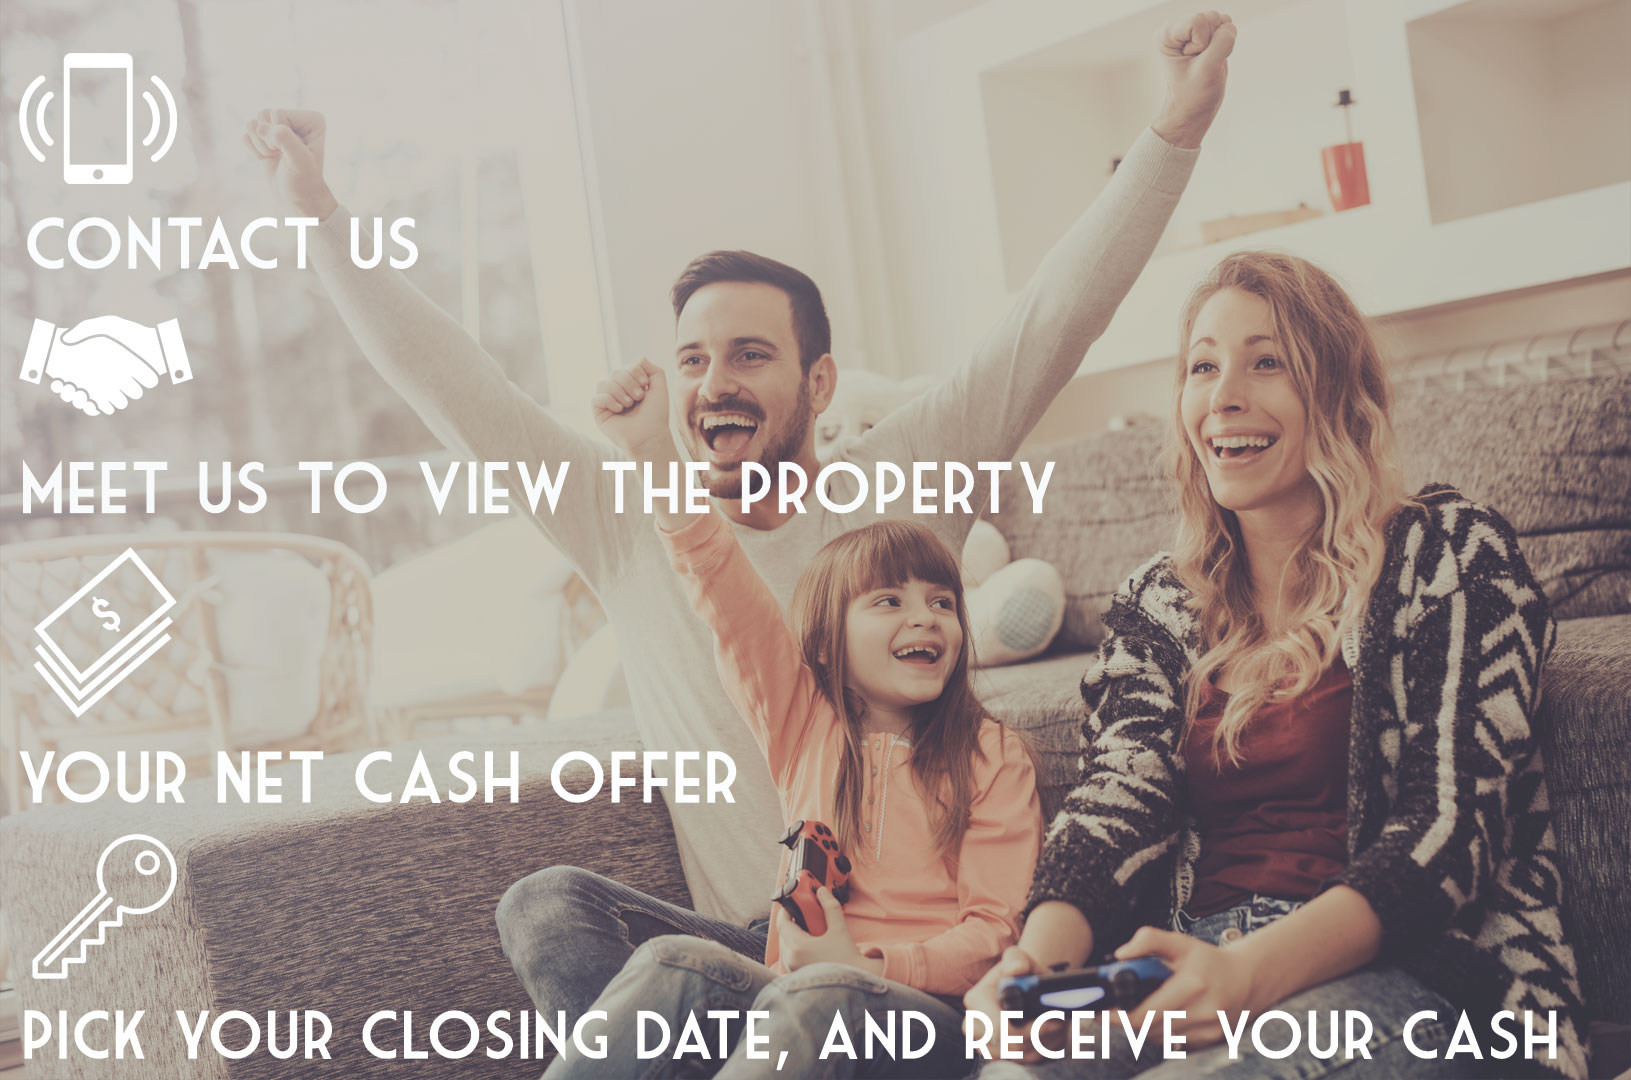
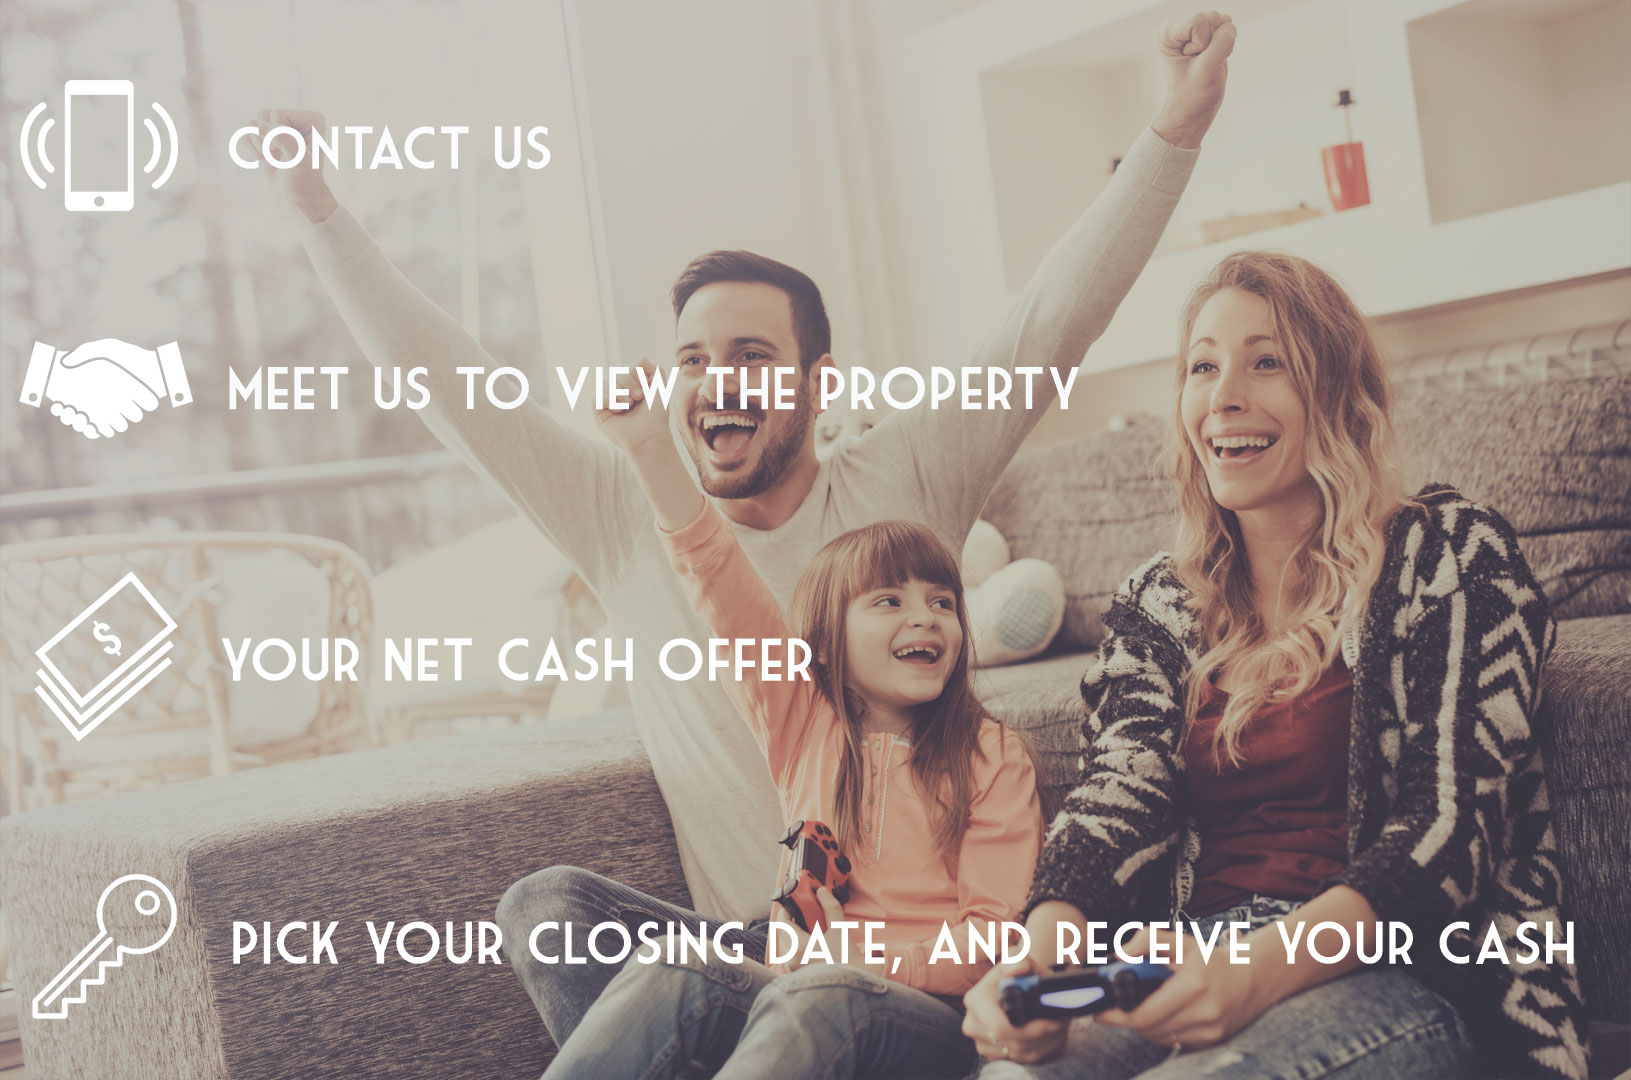
change

Changed region(s): [[0.0, 0.4278, 0.981, 1.0], [0.0, 0.275, 0.6744, 0.3972], [0.0, 0.0306, 0.3372, 0.2444]]

diff --git a/index.html b/index.html
@@ -102,7 +102,7 @@
                         <h2>Why Sell to Us</h2>
         <div class="row">
             <p>“We Believe the process of selling a home has become complicated and takes too long, we keep it short and simple, paying all cash, buying in “as is” condition, and managing the title process from opening escrow to you receiving your cash.”</p>
-              <img class="ncoimage" href="#" src="images/Handing_Off_Check.jpg"/>
+              <img class="ncoimage" src="images/keychain.jpg" alt="..." class="img-circle">
         </div> <!-- row -->
                       
                   </div>
@@ -131,7 +131,7 @@
     </div> <!-- How it Works -->
     
     <div class="page" id="thumbnails">
-    <div class="content container">
+    <div class="content container-fluid">
         <div class="row">
             <div class="col-sm-12"></div>
             <img src="images/AdobeStock_130886127.jpeg" alt="#">
@@ -285,7 +285,7 @@
                 <a name="contactus"></a>
                 <h2>Contact Us</h2>
                 <h2 id="phone">480-351-5185</h2>
-                <h2 id="address"
+                <h2 id="address">3150 N. 24t St. B203 Phoenix, AZ 85016</h2>
             </div> <!-- col-sm -->
         </div> <!-- Row -->
     </div> <!-- Container -->

diff --git a/css/style.css b/css/style.css
@@ -17,6 +17,10 @@ h1, h2, h3, h4, h5, h6 {
     margin: 0;
 }
 
+h2 {
+    font-size: 2.0em;
+}
+
 img {
     max-width: 200px;
 }
@@ -134,6 +138,7 @@ a {
     padding-top: 20px;
     width: 100%;
     max-width: none;
+    margin-left: -50px;
 }
 
 .getcashoffer {
@@ -175,7 +180,7 @@ p {
 }
 
 #thumbnails img {
-    background-image: url(/images/AdobeStock_130886127.jpeg);
+    
     max-width: 100%;
     max-height: 100%;
     margin: 0;
